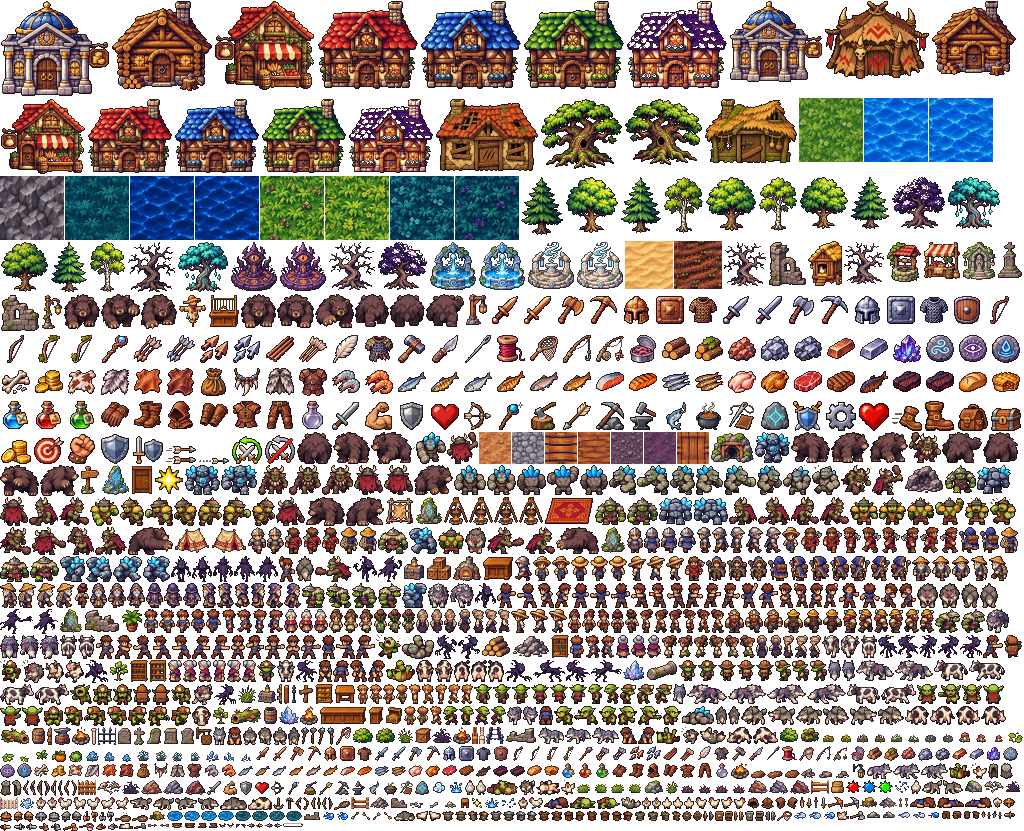
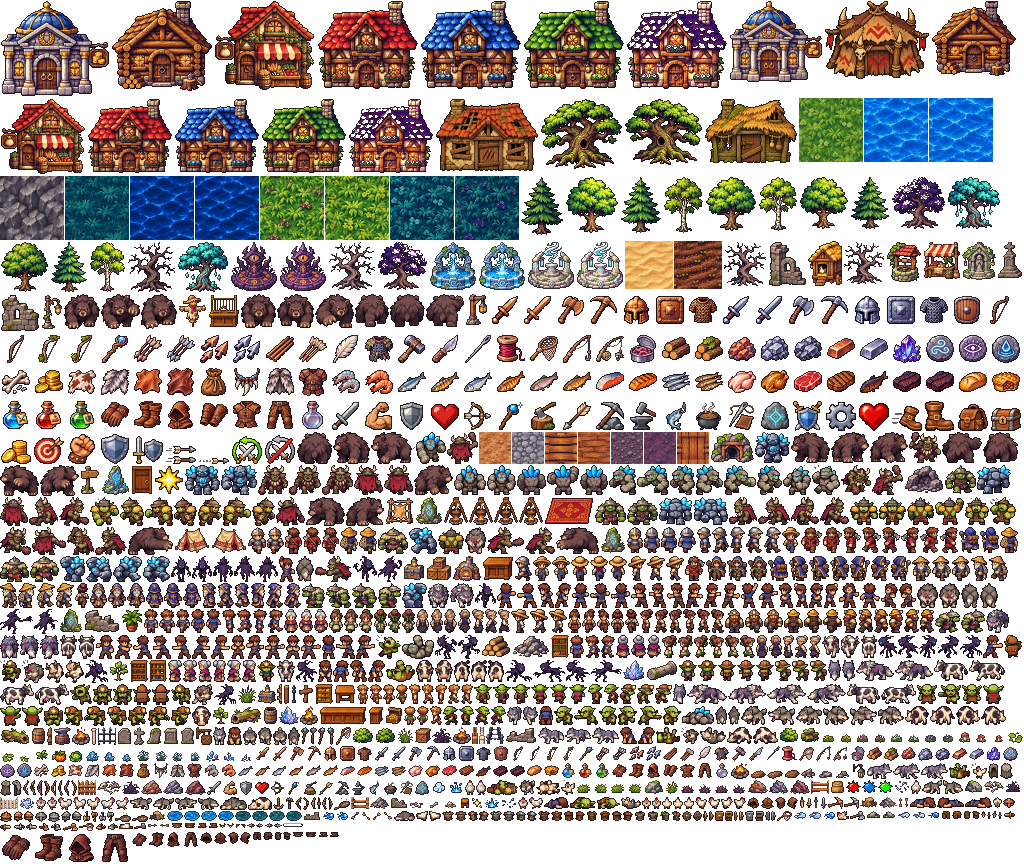
v0.23.0: Crafting batch A — lower levels and a hard leather set
- Lower crafting levels: hard leather 6 (was 10), boots 4, cowl 6,
  vambraces 8, body 10, chaps 13, hard leather body 20 (was 28).
- New hard leather gloves (15), boots (16), cowl (18) and chaps (22),
  sewn from hard leather.
- Hilda tells you the new levels.
- New pieces use the leather art recoloured (tools/derived.py, also run
  by build_art.py), with code-drawn fallbacks.
- Design doc and roadmap updated.

Claude-Session: https://claude.ai/code/session_019qunzUzYoTk4cHzravWUZP

diff --git a/data/items.js b/data/items.js
@@ -183,6 +183,22 @@ export const ITEMS = {
     name: 'Hard leather body', value: 170, examine: 'Boiled and hardened leather. Needs Defence 10.',
     equip: { slot: 'body', req: { defence: 10 }, att: { ranged: 8, magic: -6 }, def: { stab: 12, slash: 15, crush: 18, ranged: 20, magic: 6 }, look: { tunic: '#5e3b1f' } },
   },
+  hardLeatherGloves: {
+    name: 'Hard leather gloves', value: 40, examine: 'Stiff leather gloves. A sure grip on the bowstring.',
+    equip: { slot: 'hands', req: {}, att: { ranged: 2 }, def: { stab: 2, slash: 2, crush: 2, ranged: 1 } },
+  },
+  hardLeatherBoots: {
+    name: 'Hard leather boots', value: 40, examine: 'Hardened leather boots with thick soles.',
+    equip: { slot: 'feet', req: {}, att: { ranged: 1 }, def: { stab: 2, slash: 2, crush: 2, ranged: 1 } },
+  },
+  hardLeatherCowl: {
+    name: 'Hard leather cowl', value: 60, examine: 'A hood of hardened leather. Needs Defence 5.',
+    equip: { slot: 'head', req: { defence: 5 }, att: { ranged: 2, magic: -1 }, def: { stab: 3, slash: 4, crush: 4, ranged: 4, magic: 2 }, look: { hat: 'hood', hatColor: '#5e3b1f' } },
+  },
+  hardLeatherChaps: {
+    name: 'Hard leather chaps', value: 90, examine: 'Hardened leather leggings. Needs Defence 5.',
+    equip: { slot: 'legs', req: { defence: 5 }, att: { ranged: 6, magic: -2 }, def: { stab: 4, slash: 4, crush: 4, ranged: 6, magic: 2 }, look: { pants: '#5e3b1f' } },
+  },
   leatherGloves: {
     name: 'Leather gloves', value: 6, examine: 'Keeps your hands warm and your grip firm.',
     equip: { slot: 'hands', req: {}, def: { stab: 1, slash: 1, crush: 1 }, att: { ranged: 1 } },

diff --git a/data/crafting.js b/data/crafting.js
@@ -11,17 +11,21 @@ const sew = (id, name, level, xp, leather = 'leather') => ({
 
 export const TANNING = [
   tan('leather', 'Leather', 1, 2),
-  tan('hardLeather', 'Hard leather', 10, 4),
+  tan('hardLeather', 'Hard leather', 6, 4),
 ];
 
 export const SEWING = [
   sew('leatherGloves', 'Leather gloves', 1, 13.8),
-  sew('leatherBoots', 'Leather boots', 7, 16.25),
-  sew('leatherCowl', 'Leather cowl', 9, 18.5),
-  sew('leatherVambraces', 'Leather vambraces', 11, 22),
-  sew('leatherBody', 'Leather body', 14, 25),
-  sew('leatherChaps', 'Leather chaps', 18, 27),
-  sew('hardLeatherBody', 'Hard leather body', 28, 35, 'hardLeather'),
+  sew('leatherBoots', 'Leather boots', 4, 16.25),
+  sew('leatherCowl', 'Leather cowl', 6, 18.5),
+  sew('leatherVambraces', 'Leather vambraces', 8, 22),
+  sew('leatherBody', 'Leather body', 10, 25),
+  sew('leatherChaps', 'Leather chaps', 13, 27),
+  sew('hardLeatherGloves', 'Hard leather gloves', 15, 28, 'hardLeather'),
+  sew('hardLeatherBoots', 'Hard leather boots', 16, 29.5, 'hardLeather'),
+  sew('hardLeatherCowl', 'Hard leather cowl', 18, 31, 'hardLeather'),
+  sew('hardLeatherBody', 'Hard leather body', 20, 35, 'hardLeather'),
+  sew('hardLeatherChaps', 'Hard leather chaps', 22, 36, 'hardLeather'),
 ];
 
 // Tapping one of these items opens the sewing menu for that leather.

diff --git a/data/npcs.js b/data/npcs.js
@@ -243,12 +243,13 @@ export const NPCS = [
         full: { say: "Your bag's full! Make a bit of room first.", next: 'menu' },
         lesson: {
           say: ['First, kill a cow or two and take the hides. Every cow drops one.',
-            'Bring them to my tanning rack here and tap it to tan them into leather. Hard leather needs Crafting 10.',
+            'Bring them to my tanning rack here and tap it to tan them into leather. Hard leather needs Crafting 6.',
             'Then tap your leather with a needle and thread in your bag, and pick what to sew. Each piece uses one thread. Pell sells more.'],
           next: 'menu',
         },
         make: {
-          say: ['Gloves to start with. Boots at 7, a cowl at 9, vambraces at 11.', 'A leather body at 14, chaps at 18, and a hard leather body at 28.',
+          say: ['Gloves to start with. Boots at 4, a cowl at 6, vambraces at 8.', 'A leather body at 10 and chaps at 13.',
+            'Then hard leather: gloves at 15, boots at 16, a cowl at 18, a body at 20 and chaps at 22.',
             "It all helps an archer. The vambraces and chaps especially."],
           next: 'menu',
         },

diff --git a/src/render/items.js b/src/render/items.js
@@ -580,6 +580,18 @@ const DRAW = {
   },
 };
 
+// Hard leather pieces: the leather drawing in darker, redder leather.
+for (const part of ['Gloves', 'Boots', 'Cowl', 'Chaps']) {
+  DRAW[`hardLeather${part}`] = (b) => {
+    DRAW[`leather${part}`](b);
+    const d = b.data;
+    for (let i = 0; i < d.length; i += 4) {
+      if (!d[i + 3] || (d[i] > 180 && d[i + 1] > 140)) continue; // keep brass bright
+      d[i] = d[i] * 0.78; d[i + 1] = d[i + 1] * 0.66; d[i + 2] = d[i + 2] * 0.7;
+    }
+  };
+}
+
 const cache = new Map();
 
 // { img: canvas, url: data URL } for an item id.

diff --git a/src/version.js b/src/version.js
@@ -1,3 +1,3 @@
 // Shown in Settings. Bump with every batch.
-export const GAME_VERSION = '0.22.0';
-export const BUILD_NAME = 'Painted art, part 4';
+export const GAME_VERSION = '0.23.0';
+export const BUILD_NAME = 'Crafting, batch A';

diff --git a/tools/derived.py b/tools/derived.py
@@ -1,0 +1,89 @@
+"""Painted art made from other painted art, for items that have no sheet of
+their own yet: a recoloured copy of an existing sprite.
+
+build_art.py adds these at the end of every build. To add them to an atlas
+that is already built (no sheets needed), run:
+
+    python3 tools/derived.py
+
+It appends any missing derived sprites to assets/art.png and art.json and
+leaves everything else exactly where it was.
+"""
+import json, os, sys
+import numpy as np
+from PIL import Image
+
+ROOT = os.path.join(os.path.dirname(__file__), '..')
+
+
+def hard_leather(im):
+    """Leather browns -> the darker, redder brown of hard leather. Brass
+    buckles and studs (bright yellow) are left alone."""
+    rgba = np.array(im.convert('RGBA'))
+    hsv = np.array(im.convert('RGB').convert('HSV')).astype(np.float32)
+    h, s, v = hsv[..., 0], hsv[..., 1], hsv[..., 2]
+    brass = (h > 24) & (h < 50) & (s > 110) & (v > 150)
+    leather = (rgba[..., 3] > 0) & ~brass
+    h2 = np.where(leather, np.clip(h - 6, 0, 255), h)       # a touch redder
+    s2 = np.where(leather, s * 0.85, s)                      # a little duller
+    v2 = np.where(leather, v * 0.78, v)                      # darker
+    out = Image.fromarray(np.stack([h2, s2, v2], -1).clip(0, 255).astype(np.uint8), 'HSV').convert('RGBA')
+    o = np.array(out)
+    o[..., 3] = rgba[..., 3]
+    return Image.fromarray(o, 'RGBA')
+
+
+# new name: (copied from, recolour). Every prefix that exists for the source is copied.
+DERIVED = {
+    'hardLeatherGloves': ('leatherGloves', hard_leather),
+    'hardLeatherBoots': ('leatherBoots', hard_leather),
+    'hardLeatherCowl': ('leatherCowl', hard_leather),
+    'hardLeatherChaps': ('leatherChaps', hard_leather),
+}
+PREFIXES = ['icon:{}', 'iconS:{}', 'gear:{}:down', 'gear:{}:up', 'gear:{}:left', 'gear:{}:right']
+
+
+def derive(get):
+    """get(name) -> list of (k, image, ax, ay) for an existing sprite, or [].
+    Returns new (name, k, image, ax, ay) tiles."""
+    out = []
+    for new, (old, fn) in DERIVED.items():
+        for p in PREFIXES:
+            for k, im, ax, ay in get(p.format(old)):
+                out.append((p.format(new), k, fn(im), ax, ay))
+    return out
+
+
+def patch():
+    png, js = f'{ROOT}/assets/art.png', f'{ROOT}/assets/art.json'
+    atlas = Image.open(png).convert('RGBA')
+    meta = json.load(open(js))
+
+    def get(name):
+        return [(k, atlas.crop((x, y, x + w, y + h)), ax, ay) for k, (x, y, w, h, ax, ay) in enumerate(meta.get(name, []))]
+
+    tiles = [t for t in derive(get) if t[0] not in meta]
+    if not tiles:
+        print('nothing to add'); return
+    # pack below the existing atlas, tallest first, same row packing as build_art.py
+    tiles.sort(key=lambda t: -t[2].height)
+    W, x, y0, rowh, placed = atlas.width, 0, atlas.height + 1, 0, []
+    y = y0
+    for t in tiles:
+        im = t[2]
+        if x + im.width > W: x, y, rowh = 0, y + rowh + 1, 0
+        placed.append((t, x, y)); x += im.width + 1; rowh = max(rowh, im.height)
+    big = Image.new('RGBA', (W, y + rowh))
+    big.alpha_composite(atlas, (0, 0))
+    for (name, k, im, ax, ay), px, py in placed:
+        big.alpha_composite(im, (px, py))
+        lst = meta.setdefault(name, [])
+        while len(lst) <= k: lst.append(None)
+        lst[k] = [px, py, im.width, im.height, ax, ay]
+    big.save(png, optimize=True)
+    with open(js, 'w') as f: json.dump(meta, f, separators=(',', ':'))
+    print('added', len(placed), 'images; atlas', big.size, os.path.getsize(png) // 1024, 'KB')
+
+
+if __name__ == '__main__':
+    patch()

diff --git a/tools/build_art.py b/tools/build_art.py
@@ -441,6 +441,11 @@ def build():
         if sat != 1: g0 = tint(g0, 1, sat)
         t = calm(shrink(seamless(g0).convert('RGBA'), w=size, h=size, outline=False, colors=32), k)
         tiles.append(('tex:' + name, 0, t, 0, 0))
+    # Recoloured copies for items with no sheet of their own (tools/derived.py).
+    from derived import derive
+    have = {}
+    for (name, k, im, ax, ay) in tiles: have.setdefault(name, []).append((k, im, ax, ay))
+    tiles += [t for t in derive(lambda n: sorted(have.get(n, []), key=lambda v: v[0])) if t[0] not in have]
     # pack into rows, tallest first
     tiles.sort(key=lambda t: -t[2].height)
     W, x, y, rowh, placed = 1024, 0, 0, 0, []

diff --git a/docs/ROADMAP.md b/docs/ROADMAP.md
@@ -1,6 +1,6 @@
 # RuneBound Chronicles — Roadmap
 
-*Updated 2 November 2026 · matches [GAME_DESIGN.md](GAME_DESIGN.md) v2.2*
+*Updated 3 November 2026 · matches [GAME_DESIGN.md](GAME_DESIGN.md) v2.3*
 
 The game is built in small batches. Each batch must:
 
@@ -33,7 +33,7 @@ Released 2 November 2026 as game version 0.10.0 (the version numbers in Settings
 1. ✅ Woodcutting (trees on the forest route) and Fletching (bows, arrows) — v0.11.0
 2. ✅ Mining (a small mine area) and Smithing (bars, bronze/iron gear) — v0.12.0
 3. ✅ Fishing and Cooking (food you make yourself) — v0.13.0
-4. ✅ Crafting (leather armour) — v0.15.0; ✅ Runecrafting (air, mind and water runes) and Whispering Vale — v0.16.0
+4. ✅ Crafting (leather armour) — v0.15.0; ✅ lower levels and a hard leather set — v0.23.0; next: spinning, robes, jewellery, wolf leather; ✅ Runecrafting (air, mind and water runes) and Whispering Vale — v0.16.0
 5. Bank tabs and search
 
 ## Phase 3 — Quests and new regions (v0.3)
@@ -62,6 +62,7 @@ Released 2 November 2026 as game version 0.10.0 (the version numbers in Settings
 
 | Date | Change |
 | --- | --- |
+| 3 Nov 2026 | v0.23.0: Crafting, batch A — lower levels (hard leather 6; boots 4, cowl 6, vambraces 8, body 10, chaps 13) and a hard leather set: gloves 15, boots 16, cowl 18, body 20 (was 28) and chaps 22, sewn from hard leather. Hilda tells you the new levels. The new pieces use the leather art recoloured. |
 | 3 Nov 2026 | v0.22.0: painted art, part 4 (sheets 17–31) — four-frame campfires, cooking pots and fishing spots; attack, hit and fall animations for the player (slash, bow, cast) and every enemy and animal; worn gear drawn on the player again (helmets, cowl, chainbodies, leather body and chaps, boots, wolf cloak, war charm, all weapons and shields; gloves and vambraces don't show); a new Edda the Banker; painted iron, wooden and picket fences in every direction; graveyard headstones, mounds, memorial and the player's grave marker; watchtower ruins; bones; the goblin chief's hut, the hermit's hut and the boarded-up farmhouse; the free-bow board; shop and bank counters, booths, shelves, rug, plants, lamps, sack and coin chests; painted skill icons, interface icons (settings, heart, run/walk), damage splats, health bars, level-up burst and rare-drop sparkle; painted axes, pickaxes, hammer, frying pan and net while skilling; Wind and Water Strike in flight and splashing; arrows in eight directions. Art for the goblin chief, cave beast and night stalker is in the atlas for later. |
 | 3 Nov 2026 | v0.21.3: Thornwood's old graveyard made more graveyard-like — black iron railings, a flagstone path from the gate to a tall memorial to the fallen of the Goblin War, eight graves in two rows (rounded, cross, leaning mossy and carved headstones, each with a mound of earth), two dead trees, dead grass, bones and mushrooms. Every grave and the memorial can be read. |
 | 3 Nov 2026 | v0.21.2: Thornwood's stone shrine tidied: a neat square of paving with straight edges (areas can now mark paving as `neat`), the shrine in the exact middle, eight standing stones in line just outside its edges (two a side), the path coming in between the south pair, and trees cleared from around it. |

diff --git a/docs/GAME_DESIGN.md b/docs/GAME_DESIGN.md
@@ -1,6 +1,6 @@
 # RuneBound Chronicles — Game Design Document
 
-*Version 2.2 · Updated 2 November 2026 · 2D pixel art; supersedes the original creature-battler concept*
+*Version 2.3 · Updated 3 November 2026 · 2D pixel art; supersedes the original creature-battler concept*
 
 ## 1. Vision
 
@@ -434,7 +434,7 @@ Saves from before v0.18 that were standing in the old Route 1 (or left a gravest
 | Mind | 2 | 5.5 | 14, 28, 42, 56, 70, 84, 98 |
 | Water | 5 | 6 | 19, 38, 57, 76, 95 |
 
-### Crafting (shipped in v0.15.0)
+### Crafting (shipped in v0.15.0; levels lowered and hard leather set added in v0.23.0)
 
 **Hilda the Tanner**, by the cow field in Brambleford, gives you a needle and 20 thread when you ask her to teach you. Pell sells more of both.
 
@@ -443,19 +443,27 @@ Saves from before v0.18 that were standing in the old Route 1 (or left a gravest
 | Makes | Level | From | XP |
 | --- | --- | --- | --- |
 | Leather | 1 | 1 cowhide | 2 |
-| Hard leather | 10 | 1 cowhide | 4 |
+| Hard leather | 6 | 1 cowhide | 4 |
 
 **Sewing.** Tap leather (or the needle) to choose what to sew. Each piece uses 1 leather and 1 thread, needs a needle, and keeps going until you run out.
 
 | Item | Level | XP | Notes |
 | --- | --- | --- | --- |
 | Leather gloves | 1 | 13.8 | +1 ranged attack |
-| Leather boots | 7 | 16.25 | |
-| Leather cowl | 9 | 18.5 | Head; +1 ranged attack |
-| Leather vambraces | 11 | 22 | Hands; +4 ranged attack |
-| Leather body | 14 | 25 | |
-| Leather chaps | 18 | 27 | Legs; +4 ranged attack |
-| Hard leather body | 28 | 35 | From hard leather; needs Defence 10; +8 ranged attack, ranged defence +20 |
+| Leather boots | 4 | 16.25 | |
+| Leather cowl | 6 | 18.5 | Head; +1 ranged attack |
+| Leather vambraces | 8 | 22 | Hands; +4 ranged attack |
+| Leather body | 10 | 25 | |
+| Leather chaps | 13 | 27 | Legs; +4 ranged attack |
+| Hard leather gloves | 15 | 28 | From hard leather; +2 ranged attack |
+| Hard leather boots | 16 | 29.5 | From hard leather; +1 ranged attack |
+| Hard leather cowl | 18 | 31 | From hard leather; needs Defence 5; +2 ranged attack |
+| Hard leather body | 20 | 35 | From hard leather; needs Defence 10; +8 ranged attack, ranged defence +20 |
+| Hard leather chaps | 22 | 36 | From hard leather; needs Defence 5; +6 ranged attack, ranged defence +6 |
+
+The hard leather gloves, boots, cowl and chaps use the leather pieces' painted art recoloured to hard leather (`tools/derived.py`) until they get sheets of their own.
+
+**Planned expansions** (in order): spinning (flax into bowstrings, sheep's wool into thread), robes for mages (wool woven into cloth), jewellery (silver and gold, moulds at the furnace, cut gems), wolf leather. Ideas for later: studded leather (with Smithing), pottery.
 
 Animations: scraping the hide on the rack; a needle going in and out of the leather.
 
